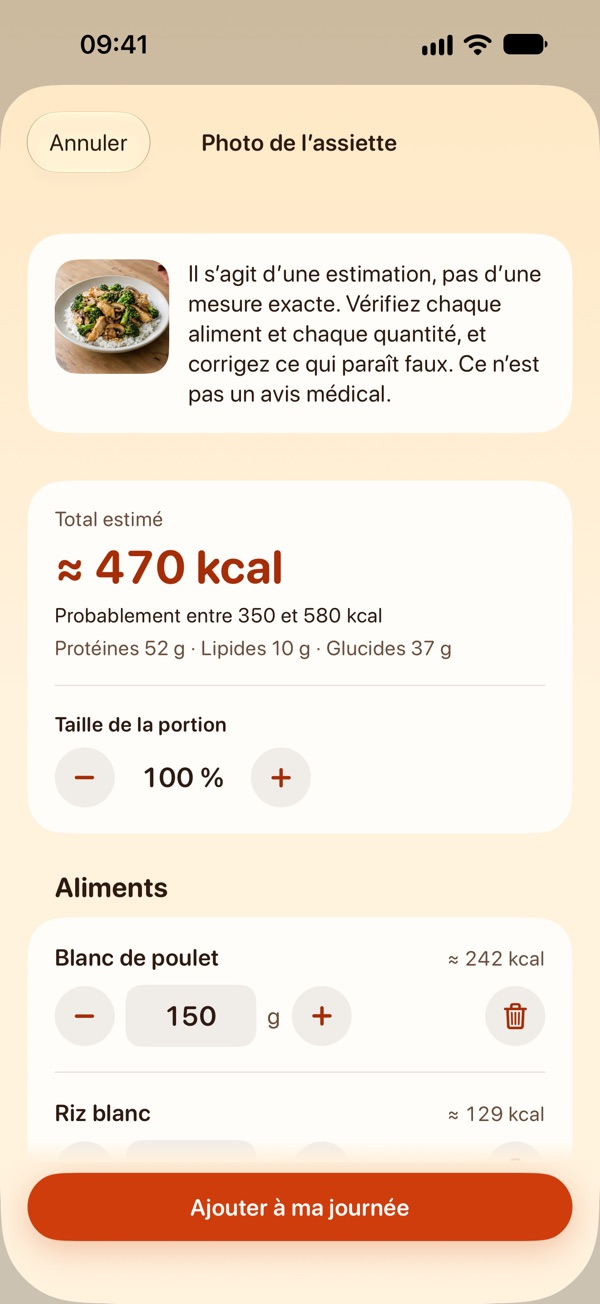
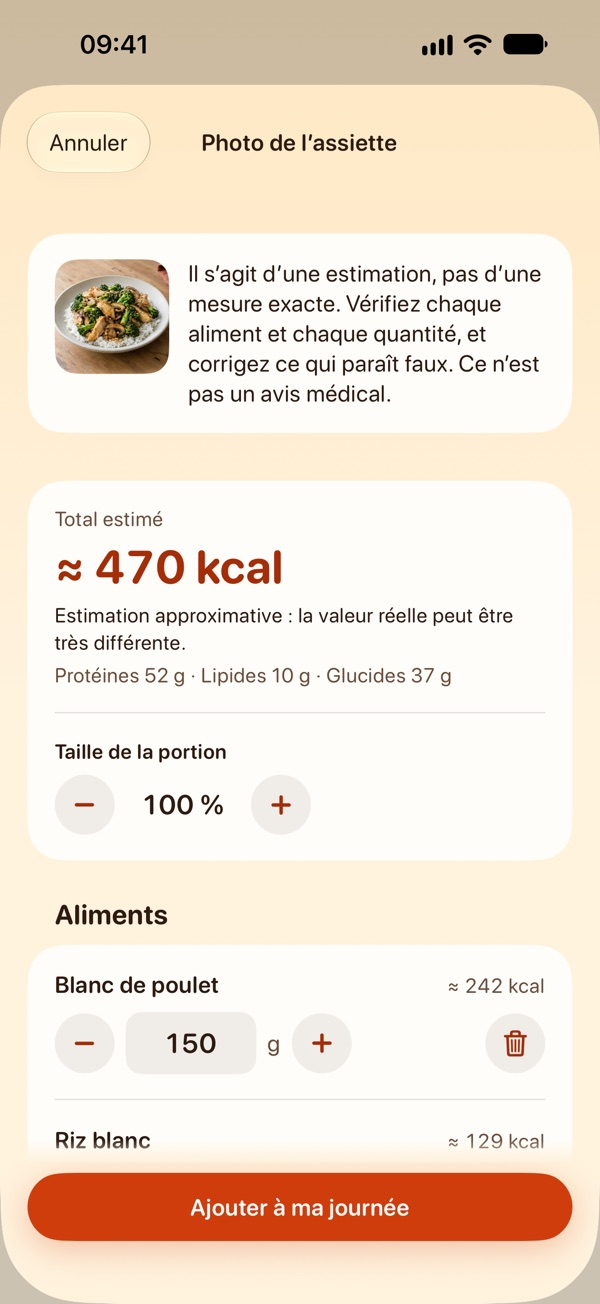
Site 2.5.1 : résultat de la photo de l'assiette sans fourchette, rappel des graisses invisibles, mention « Estimation incertaine », note de liste pleine et corrections du clavier (questions fréquentes et capture), en anglais et en français

diff --git a/fr/index.html b/fr/index.html
@@ -111,7 +111,7 @@ footer{color:var(--muted);font-size:13px;text-align:center;margin-top:28px}
   <section id="app">
     <h2>Votre semaine, organisée</h2>
     <ul class="features">
-      <li><strong>Des calories à partir d’une photo de l’assiette (version 2.5)</strong>Prenez votre assiette en photo : l’intelligence artificielle intégrée à votre iPhone reconnaît les aliments et estime les quantités et les calories, sur l’appareil. La photo n’est ni enregistrée ni envoyée. Ajoutez le résultat à votre journal du jour. 3 analyses sont offertes ; ensuite, l’analyse de la photo de l’assiette fait partie de Premium. Il faut un iPhone compatible avec l’intelligence artificielle intégrée, sous iOS 27 ou plus récent, avec cette fonction activée ; tout le reste fonctionne sans elle. Les estimations sont approximatives.</li>
+      <li><strong>Des calories à partir d’une photo de l’assiette (version 2.5)</strong>Prenez votre assiette en photo : l’intelligence artificielle intégrée à votre iPhone reconnaît les aliments et estime les quantités et les calories, sur l’appareil. La photo n’est ni enregistrée ni envoyée. Ajoutez le résultat à votre journal du jour. 3 analyses sont offertes ; ensuite, l’analyse de la photo de l’assiette fait partie de Premium. Il faut un iPhone compatible avec l’intelligence artificielle intégrée, sous iOS 27 ou plus récent, avec cette fonction activée ; tout le reste fonctionne sans elle. Le résultat est une estimation approximative, qui peut être très éloignée de votre assiette : l’huile, le beurre, la crème et les sauces sont souvent invisibles sur une photo ; vérifiez chaque aliment et chaque quantité, et ajoutez ce qui manque.</li>
       <li><strong>Votre journal du jour (version 2.5)</strong>Gardez la trace de ce que vous mangez chaque jour et voyez le total de calories d’un coup d’œil. Votre journal reste sur votre iPhone.</li>
       <li><strong>Calculateur de calories (version 2.5, gratuit)</strong>Dans Objectifs, pour les adultes : indiquez votre âge, le sexe utilisé par la formule, votre taille, votre poids et votre niveau d’activité, et voyez une estimation de votre métabolisme de base (l’énergie dépensée au repos) et des calories pour maintenir votre poids, par jour et par semaine. Il applique la formule de Mifflin-St Jeor et les facteurs d’activité habituels. Ce sont des estimations, pas un avis médical, et aucun nombre n’est affiché si vous indiquez une grossesse, un allaitement, un trouble du comportement alimentaire ou une maladie. Ce que vous saisissez n’est ni enregistré ni envoyé.</li>
       <li><strong>De nouvelles formules et un écran d’offre plus clair (version 2.4)</strong>Choisissez l’abonnement à la semaine (essai gratuit de 3 jours pour les nouveaux abonnés éligibles), au mois, pour 3 mois ou à l’année, la meilleure offre. Juste après votre première semaine offerte, l’écran d’offre s’ouvre avec un titre tiré de vos réponses ; fermez-le avec la croix pour garder l’accès limité. « Tout voir » liste toutes les fonctions Premium.</li>
@@ -132,7 +132,7 @@ footer{color:var(--muted);font-size:13px;text-align:center;margin-top:28px}
       <li><strong>TakeMyWeek Premium</strong>Abonnement à renouvellement automatique, à la semaine (avec essai gratuit de 3 jours pour les nouveaux abonnés éligibles), au mois, pour 3 mois ou à l’année. Il débloque la création et la modification des semaines, toutes les recettes, les filtres avancés, le placard, le scan et l’analyse de la photo de l’assiette au-delà des 3 offertes. Les nouvelles installations (version 2.1 et suivantes) peuvent voir une offre de bienvenue pendant 48 heures, dans Objectifs et, depuis la version 2.3, en tête de l’écran d’offre (voir les conditions d’utilisation). Sans abonnement, vous pouvez parcourir les rubriques, relire votre semaine et vos courses enregistrées, utiliser les Objectifs, le calculateur de calories et les pas, et essayer 3 fois l’analyse de la photo de l’assiette.</li>
     </ul>
     <div class="shots" role="group" aria-label="Captures de TakeMyWeek sur iPhone">
-      <img src="../assets/shot25-fr-plate.jpg" width="600" height="1304" alt="Résultat de la photo de l’assiette : le total estimé est d’environ 470 kcal, probablement entre 350 et 580 kcal, avec les protéines, les lipides et les glucides. Dessous, les aliments reconnus : blanc de poulet 150 g et riz blanc 100 g, chacun avec sa quantité à corriger, et le bouton « Ajouter à ma journée »." loading="lazy" decoding="async">
+      <img src="../assets/shot25-fr-plate.jpg" width="600" height="1304" alt="Résultat de la photo de l’assiette : le total estimé est d’environ 470 kcal, avec la mention qu’il s’agit d’une estimation approximative, puis les protéines, les lipides et les glucides. Dessous, les aliments reconnus : blanc de poulet 150 g et riz blanc 100 g, chacun avec sa quantité à corriger, et le bouton « Ajouter à ma journée »." loading="lazy" decoding="async">
       <img src="../assets/shot25-fr-journal.jpg" width="600" height="1304" alt="Onglet Objectifs, carte « Journal du jour » : environ 776 kcal mangées aujourd’hui, un objectif quotidien estimé d’environ 1 917 kcal et environ 1 141 kcal restantes, avec le bouton « Photo de l’assiette »." loading="lazy" decoding="async">
       <img src="../assets/shot22-fr-1.jpg" width="600" height="1304" alt="« Qu’est-ce qui compte pour vous ? » Quatre objectifs cochés : manger plus équilibré, gagner du temps en cuisine, bouger plus au quotidien et cuisiner pour toute la famille." loading="lazy" decoding="async">
       <img src="../assets/shot22-fr-2.jpg" width="600" height="1304" alt="« Votre configuration » : déjeuner et dîner, 5 jours ; 4 personnes ; temps de cuisine : 30 minutes ou moins ; régime Équilibré, choisi pour vous ; aucun allergène exclu ; toutes les rubriques de recettes ; objectif de 8 000 pas par jour." loading="lazy" decoding="async">
@@ -179,7 +179,7 @@ footer{color:var(--muted);font-size:13px;text-align:center;margin-top:28px}
     <h3>Enfants</h3>
     <p>TakeMyWeek ne collecte aucune information, auprès de personne, enfants compris. Les Objectifs (poids et objectif calorique) et le calculateur de calories sont réservés aux adultes de 18 ans et plus ; l’app refuse un profil de moins de 18 ans et le calculateur n’affiche aucun résultat en dessous.</p>
     <h3>Informations de santé</h3>
-    <p>Les calories, les macronutriments, les régimes, l’objectif calorique et l’objectif de pas sont des estimations et des informations générales, pas un avis médical ou diététique. Les calories estimées à partir d’une photo d’assiette sont approximatives : l’analyse peut se tromper sur les plats et les portions, vérifiez donc le résultat. L’objectif calorique repose sur une formule publiée, avec des garde-fous (apport minimal quotidien, rythme doux ou modéré, aucune prise de poids visée) ; il ne peut pas prédire vos résultats. Le calculateur de calories repose lui aussi sur une formule publiée (Mifflin-St Jeor, avec des facteurs d’activité) : ses chiffres sont des estimations qui varient d’une personne à l’autre. Si vous êtes enceinte ou allaitez, avez une maladie, ou avez ou avez eu un trouble du comportement alimentaire, parlez-en à un professionnel de santé avant de changer d’alimentation ; si vous l’indiquez dans votre profil, l’app ne calcule pas de déficit calorique. Les filtres de régime et d’allergènes reposent sur les ingrédients de notre catalogue : vérifiez toujours les emballages (allergènes, contaminations croisées).</p>
+    <p>Les calories, les macronutriments, les régimes, l’objectif calorique et l’objectif de pas sont des estimations et des informations générales, pas un avis médical ou diététique. Les calories estimées à partir d’une photo d’assiette sont approximatives et peuvent être très éloignées de la valeur réelle : l’analyse peut se tromper sur les plats et les portions et ne voit souvent pas l’huile, le beurre, la crème ni les sauces ; vérifiez donc le résultat et ajoutez ce qui manque. L’objectif calorique repose sur une formule publiée, avec des garde-fous (apport minimal quotidien, rythme doux ou modéré, aucune prise de poids visée) ; il ne peut pas prédire vos résultats. Le calculateur de calories repose lui aussi sur une formule publiée (Mifflin-St Jeor, avec des facteurs d’activité) : ses chiffres sont des estimations qui varient d’une personne à l’autre. Si vous êtes enceinte ou allaitez, avez une maladie, ou avez ou avez eu un trouble du comportement alimentaire, parlez-en à un professionnel de santé avant de changer d’alimentation ; si vous l’indiquez dans votre profil, l’app ne calcule pas de déficit calorique. Les filtres de régime et d’allergènes reposent sur les ingrédients de notre catalogue : vérifiez toujours les emballages (allergènes, contaminations croisées).</p>
     <h3>Suppression</h3>
     <p>Les données restent sur votre iPhone jusqu’à ce que vous les remplaciez ou supprimiez l’app. Réglages › Réinitialiser les données efface les données actives (planning, préférences, favoris, placard, coches de courses, Objectifs, réponses « Mes besoins », journal du jour (depuis la version 2.5), liste des félicitations déjà affichées, cache des produits scannés et, depuis la version 2.3, rappel hebdomadaire avec sa notification programmée et trace des articles exportés), mais conserve une copie de récupération sur l’appareil ; supprimez l’app (plutôt que de la décharger) pour effacer tout ce qu’elle a enregistré. L’élément de l’offre de bienvenue et le compteur des analyses offertes peuvent rester dans le trousseau, comme expliqué plus haut. Vos pas restent dans l’app Santé, que vous contrôlez. Les articles déjà exportés vers Rappels y restent jusqu’à ce que vous les supprimiez dans Rappels. Les fichiers de sauvegarde exportés se suppriment séparément. Comme nous ne détenons rien sur aucun serveur, il n’y a rien à nous demander.</p>
     <h3>Modifications</h3>
@@ -199,7 +199,7 @@ footer{color:var(--muted);font-size:13px;text-align:center;margin-top:28px}
     <h3>Objectifs, pas et données produit</h3>
     <p>Les objectifs, l’objectif calorique, l’objectif de pas et les résultats du calculateur de calories sont des estimations générales destinées aux adultes ; ils ne remplacent pas l’avis d’un professionnel de santé. Les informations produit du scan viennent de la base ouverte et collaborative Open Food Facts (ODbL) ; elles peuvent être incomplètes ou dépassées : vérifiez l’emballage.</p>
     <h3>Photos d’assiette et journal du jour (version 2.5 et suivantes)</h3>
-    <p>L’analyse de la photo de l’assiette fait partie de Premium : les 3 premières analyses sont offertes, les suivantes demandent un abonnement Premium actif. Elle demande un iPhone compatible avec l’intelligence artificielle intégrée, sous iOS 27 ou plus récent ; là où elle n’est pas disponible, l’app l’indique et tout le reste fonctionne comme avant. Les calories estimées à partir d’une photo sont produites sur votre iPhone par un modèle automatique : elles sont approximatives, peuvent être fausses et ne constituent pas un avis médical ou diététique. Le journal du jour est un relevé personnel conservé sur votre appareil.</p>
+    <p>L’analyse de la photo de l’assiette fait partie de Premium : les 3 premières analyses sont offertes, les suivantes demandent un abonnement Premium actif. Elle demande un iPhone compatible avec l’intelligence artificielle intégrée, sous iOS 27 ou plus récent ; là où elle n’est pas disponible, l’app l’indique et tout le reste fonctionne comme avant. Les calories estimées à partir d’une photo sont produites sur votre iPhone par un modèle automatique : ce sont des estimations approximatives, qui peuvent être fausses ou très éloignées de la valeur réelle, et elles ne constituent pas un avis médical ou diététique. Le journal du jour est un relevé personnel conservé sur votre appareil.</p>
   </section>
 
   <section id="assistance">
@@ -213,9 +213,13 @@ footer{color:var(--muted);font-size:13px;text-align:center;margin-top:28px}
 
     <dl>
       <dt>Comment fonctionne la photo de l’assiette ?</dt>
-      <dd>Prenez votre assiette en photo : l’intelligence artificielle intégrée à votre iPhone reconnaît les aliments et estime les quantités et les calories, sur l’appareil. Ajoutez le résultat à votre journal du jour. 3 analyses sont offertes ; ensuite, l’analyse de la photo de l’assiette fait partie de Premium. La photo n’est ni enregistrée ni envoyée. L’estimation est approximative : elle peut se tromper sur les plats et les portions, vérifiez-la.</dd>
+      <dd>Prenez votre assiette en photo : l’intelligence artificielle intégrée à votre iPhone reconnaît les aliments et estime les quantités et les calories, sur l’appareil. Ajoutez le résultat à votre journal du jour. 3 analyses sont offertes ; ensuite, l’analyse de la photo de l’assiette fait partie de Premium. La photo n’est ni enregistrée ni envoyée. Le résultat est une estimation approximative : elle peut se tromper sur les plats et les portions, et l’huile, le beurre, la crème et les sauces sont souvent invisibles sur une photo. Vérifiez chaque aliment et chaque quantité, et ajoutez ce qui manque avec « Ajouter un aliment ».</dd>
       <dt>La photo de l’assiette n’est pas disponible sur mon iPhone.</dt>
       <dd>Elle demande un iPhone compatible avec l’intelligence artificielle intégrée, sous iOS 27 ou plus récent, avec cette fonction activée dans les Réglages et son modèle téléchargé (s’il est encore en préparation, réessayez plus tard). Sur les autres iPhone, l’app indique que la fonction n’est pas disponible et tout le reste fonctionne comme avant. La photo n’est jamais envoyée à un serveur à la place.</dd>
+      <dt>Pourquoi les calories d’après une photo peuvent-elles être fausses ?</dt>
+      <dd>L’analyse devine les aliments et leurs quantités à partir d’une seule photo. Elle ne peut rien peser et ne voit souvent pas ce qui est caché dans un plat : huile, beurre, crème, sauces. Elle peut aussi nommer un aliment à tort ou proposer une quantité trop forte ou trop faible. TakeMyWeek n’affiche donc aucune fourchette de calories, qui laisserait croire à une précision que l’analyse n’a pas : sous le total, une ligne indique « Estimation approximative : la valeur réelle peut être très différente. » Une note sous la liste des aliments rappelle que l’huile, le beurre, la crème et les sauces sont souvent invisibles sur une photo : ajoutez-les avec « Ajouter un aliment » (ils sont dans la liste d’aliments). Sous un aliment, « Estimation incertaine : à vérifier ou à corriger. » signifie que l’analyse a annoncé une confiance faible, ou que l’aliment ne figure pas dans la liste d’aliments de l’app, donc que ses calories sont l’estimation de l’analyse, ramenée dans une plage plausible pour sa catégorie : vérifiez-le ou corrigez-le. Une ligne sans cette mention n’est pas forcément juste. Si un message indique qu’une quantité a été réduite, elle a été ramenée aux limites de l’app : vérifiez-la. La note indiquant que la liste est limitée aux aliments les plus visibles n’apparaît que lorsque la liste a été coupée à 8 aliments (rare : l’analyse renvoie 8 aliments au plus). Quand la liste est pleine (8 aliments), une note indique d’en retirer un pour en ajouter un autre.</dd>
+      <dt>Qu’est-ce qui change dans la version 2.5.1 ?</dt>
+      <dd>La version 2.5.1 modifie le résultat de la photo de l’assiette et corrige quelques écrans. Le calcul des calories ne change pas. Photo de l’assiette : la fourchette de calories est remplacée par une ligne d’estimation approximative sans chiffre ; un rappel sur l’huile, le beurre, la crème et les sauces apparaît sous la liste des aliments ; un message distinct apparaît quand une quantité a été réduite ; la mention « Estimation incertaine » apparaît aussi pour les aliments qui ne figurent pas dans la liste d’aliments de l’app ; pour un tel aliment, protéines, lipides et glucides ne dépassent plus 100 g pour 100 g (les calories ne changent pas). Écrans : dans le scan de code-barres, dans la saisie à la main du journal et quand vous saisissez votre poids (« Continuer » dans « Votre objectif », « Étape suivante » dans les questions de départ), les champs et les boutons restent accessibles au-dessus du clavier, et l’interrupteur « Je suis dans l’une de ces situations » (calculateur et Objectifs) répond aussi quand vous touchez son libellé.</dd>
       <dt>Où est conservé mon journal du jour ?</dt>
       <dd>Sur votre iPhone uniquement, dans le fichier de l’app avec le reste de vos données. Il fait partie d’une sauvegarde JSON si vous en exportez une, et Réglages › Réinitialiser les données l’efface.</dd>
       <dt>Comment modifier mes besoins et objectifs ?</dt>

diff --git a/index.html b/index.html
@@ -125,7 +125,7 @@ footer{color:var(--muted);font-size:13px;text-align:center;margin-top:28px}
   <section id="app">
     <h2>Your week, sorted</h2>
     <ul class="features">
-      <li><strong>Calories from a photo of your plate (version 2.5)</strong>Take a photo of your plate: the artificial intelligence built into your iPhone recognizes the foods and estimates quantities and calories, on the device. The photo is never saved or sent. Add the result to your daily log. 3 analyses are free; after that, plate photo analysis is part of Premium. It needs an iPhone compatible with built-in artificial intelligence, running iOS 27 or later, with that feature turned on; everything else works without it. Estimates are approximate.</li>
+      <li><strong>Calories from a photo of your plate (version 2.5)</strong>Take a photo of your plate: the artificial intelligence built into your iPhone recognizes the foods and estimates quantities and calories, on the device. The photo is never saved or sent. Add the result to your daily log. 3 analyses are free; after that, plate photo analysis is part of Premium. It needs an iPhone compatible with built-in artificial intelligence, running iOS 27 or later, with that feature turned on; everything else works without it. The result is a rough estimate that can be far from your plate: oil, butter, cream and sauces are often invisible in a photo, so check every food and quantity and add what is missing.</li>
       <li><strong>Your daily log (version 2.5)</strong>Keep track of what you eat each day and see the calorie total at a glance. Your log stays on your iPhone.</li>
       <li><strong>Calorie calculator (version 2.5, free)</strong>In Goals, for adults: enter your age, the sex used in the formula, your height, your weight and how active you are, and see an estimate of your basal metabolic rate (the energy your body uses at rest) and of the calories to maintain your weight, per day and per week. It uses the Mifflin-St Jeor formula and the usual activity factors. These are estimates, not medical advice, and no number is shown if you say you are pregnant, breastfeeding, have an eating disorder or a medical condition. What you type is neither saved nor sent.</li>
       <li><strong>New plans and a clearer offer screen (version 2.4)</strong>Choose a weekly plan (3-day free trial for eligible new subscribers), monthly, 3 months or yearly, the best value. Right after your free first week, the offer screen opens with a title based on your answers; close it with the cross to keep limited access. See all lists every Premium feature.</li>
@@ -146,7 +146,7 @@ footer{color:var(--muted);font-size:13px;text-align:center;margin-top:28px}
       <li><strong>TakeMyWeek Premium</strong>An auto-renewable subscription, weekly (with a 3-day free trial for eligible new subscribers), monthly, for 3 months or yearly, unlocks generating and changing weeks, every recipe, advanced filters, the pantry, the barcode scan and plate photo analysis beyond the 3 free ones. New installations (version 2.1 and later) may see a welcome offer for 48 hours, in Goals and, from version 2.3, at the top of the offer screen (see the Terms of Use). Without a subscription you can browse the recipe collections, keep reading your saved week and shopping list, use Goals, the calorie calculator and steps, and try plate photo analysis 3 times.</li>
     </ul>
     <div class="shots" role="group" aria-label="Screenshots of TakeMyWeek on iPhone">
-      <img src="assets/shot25-en-plate.jpg" width="600" height="1304" alt="Plate photo result: the estimated total is about 470 kcal, likely between 350 and 580 kcal, with protein, fat and carbs. Below, the foods found: grilled chicken breast 150 g and white rice 100 g, each with its quantity you can correct, and the Add to my day button." loading="lazy" decoding="async">
+      <img src="assets/shot25-en-plate.jpg" width="600" height="1304" alt="Plate photo result: the estimated total is about 470 kcal, with a note that it is a rough estimate, then protein, fat and carbs. Below, the foods found: grilled chicken breast 150 g and white rice 100 g, each with its quantity you can correct, and the Add to my day button." loading="lazy" decoding="async">
       <img src="assets/shot25-en-journal.jpg" width="600" height="1304" alt="Goals tab, Daily journal card: about 776 kcal eaten today, an estimated daily goal of about 1,917 kcal and about 1,141 kcal left, with the Plate photo button." loading="lazy" decoding="async">
       <img src="assets/shot22-en-1.jpg" width="600" height="1304" alt="What matters to you? Four goals checked: Eat more balanced, Save time in the kitchen, Move more every day and Cook for the whole family." loading="lazy" decoding="async">
       <img src="assets/shot22-en-2.jpg" width="600" height="1304" alt="Your setup: lunch and dinner, 5 days; 4 people; cooking time 30 minutes or less; diet Balanced, chosen for you; no allergen left out; all recipe collections; daily step goal 8,000." loading="lazy" decoding="async">
@@ -205,7 +205,7 @@ footer{color:var(--muted);font-size:13px;text-align:center;margin-top:28px}
     <p>TakeMyWeek collects no information from anyone, including children. Goals (weight and calorie target) and the calorie calculator are for adults aged 18 and over; the app refuses a profile under 18 and the calculator gives no result under 18.</p>
 
     <h3>Health information</h3>
-    <p>Calories, macronutrients, diet labels, calorie targets and step goals are estimates and general information, not medical or dietary advice. Calories estimated from a photo of a plate are approximate: the analysis can misjudge dishes and portions, so check the result. The calorie target uses a published formula with safeguards (minimum daily intake, gentle or moderate pace, no weight-gain goal); it cannot predict your results. The calorie calculator also uses a published formula (Mifflin-St Jeor, with activity factors): its figures are estimates that vary from person to person. If you are pregnant or breastfeeding, have a medical condition, or have or had an eating disorder, talk to a health professional before changing your diet; if you tell the app so in your profile, it does not calculate a calorie deficit. Diet and allergen filters are based on ingredient labels in our catalog: always check product packaging for allergens and cross-contamination.</p>
+    <p>Calories, macronutrients, diet labels, calorie targets and step goals are estimates and general information, not medical or dietary advice. Calories estimated from a photo of a plate are approximate and can be far from the real value: the analysis can misjudge dishes and portions and often cannot see oil, butter, cream or sauces, so check the result and add what is missing. The calorie target uses a published formula with safeguards (minimum daily intake, gentle or moderate pace, no weight-gain goal); it cannot predict your results. The calorie calculator also uses a published formula (Mifflin-St Jeor, with activity factors): its figures are estimates that vary from person to person. If you are pregnant or breastfeeding, have a medical condition, or have or had an eating disorder, talk to a health professional before changing your diet; if you tell the app so in your profile, it does not calculate a calorie deficit. Diet and allergen filters are based on ingredient labels in our catalog: always check product packaging for allergens and cross-contamination.</p>
 
     <h3>Deleting your data</h3>
     <p>Data stays on your iPhone until you replace it or delete the app. Settings › Reset data clears the active data (plan, preferences, favorites, pantry, shopping checks, Goals, “My needs” answers, the daily log (from version 2.5), the list of congratulations already shown, the scanned-product cache and, from version 2.3, the weekly reminder with its scheduled notification and the record of exported items) but keeps a local recovery copy on the device; delete the app (rather than offloading it) to remove everything stored by the app. The welcome-offer item and the free-analysis counter in the keychain may remain on the device, as explained above. Steps stay in the Health app, which you control. Items already exported to the Reminders app stay there until you delete them in Reminders. Exported backup files are yours to delete separately. Because we hold nothing on any server, there is nothing to request from us.</p>
@@ -235,7 +235,7 @@ footer{color:var(--muted);font-size:13px;text-align:center;margin-top:28px}
     <h3>Goals, steps and product data</h3>
     <p>Goals, calorie targets, step goals and the calorie calculator’s results are general estimates for adults and do not replace advice from a health professional. Product information from the barcode scan comes from the open, collaborative Open Food Facts database (ODbL); it may be incomplete or out of date: check the packaging.</p>
     <h3>Plate photos and the daily log (version 2.5 and later)</h3>
-    <p>Plate photo analysis is part of Premium: the first 3 analyses are free, and later ones need an active Premium subscription. It needs an iPhone compatible with built-in artificial intelligence, running iOS 27 or later; where it is not available, the app says so and everything else works as before. Calories estimated from a photo are produced on your iPhone by an automatic model: they are approximate, can be wrong and are not medical or dietary advice. Your daily log is a personal record kept on your device.</p>
+    <p>Plate photo analysis is part of Premium: the first 3 analyses are free, and later ones need an active Premium subscription. It needs an iPhone compatible with built-in artificial intelligence, running iOS 27 or later; where it is not available, the app says so and everything else works as before. Calories estimated from a photo are produced on your iPhone by an automatic model: they are rough estimates that can be wrong or far from the real value, and they are not medical or dietary advice. Your daily log is a personal record kept on your device.</p>
   </section>
 
   <section id="support">
@@ -249,9 +249,13 @@ footer{color:var(--muted);font-size:13px;text-align:center;margin-top:28px}
 
     <dl>
       <dt>How does the plate photo work?</dt>
-      <dd>Take a photo of your plate: the artificial intelligence built into your iPhone recognizes the foods and estimates quantities and calories, on the device. Add the result to your daily log. 3 analyses are free; after that, plate photo analysis is part of Premium. The photo is never saved or sent. The estimate is approximate: it can misjudge dishes and portions, so check it.</dd>
+      <dd>Take a photo of your plate: the artificial intelligence built into your iPhone recognizes the foods and estimates quantities and calories, on the device. Add the result to your daily log. 3 analyses are free; after that, plate photo analysis is part of Premium. The photo is never saved or sent. The result is a rough estimate: it can misjudge dishes and portions, and oil, butter, cream and sauces are often invisible in a photo, so check every food and quantity and add what is missing with Add a food.</dd>
       <dt>The plate photo is not available on my iPhone.</dt>
       <dd>It needs an iPhone compatible with built-in artificial intelligence, running iOS 27 or later, with that feature turned on in Settings and its model downloaded (if it is still being prepared, try again later). On other iPhones the app tells you the feature is not available and everything else works as before. The photo is never sent to a server instead.</dd>
+      <dt>Why can the calories from a photo be wrong?</dt>
+      <dd>The analysis guesses the foods and their quantities from a single photo. It cannot weigh anything and often cannot see what is hidden in a dish: oil, butter, cream, sauces. It can also name a food wrongly or suggest a quantity that is too high or too low. TakeMyWeek therefore shows no calorie range, which would suggest a precision the analysis does not have: under the total, a line says “Rough estimate: the real value can differ a lot.” A note under the list of foods reminds you that oil, butter, cream and sauces are often invisible in a photo: add them with Add a food (they are in the food list). Under a food, “Uncertain estimate. Please check or correct it.” means that the analysis reported low confidence, or that the food is not in the app’s own food list, so its calories are the analysis’s estimate, kept within a plausible range for its category: check or correct it. A line without that mark is not necessarily right. If a message says a quantity was reduced, it was lowered to stay within the app’s limits: check it. The note that the list is limited to the most visible foods appears only when the list was cut to 8 foods (rare: the analysis returns at most 8 foods). When the list is full (8 foods), a note says to remove one to add another.</dd>
+      <dt>What changed in version 2.5.1?</dt>
+      <dd>Version 2.5.1 changes the plate photo result and fixes a few screens. The calorie calculation is unchanged. Plate photo: the calorie range is replaced by a rough-estimate line without figures; a reminder about oil, butter, cream and sauces appears under the list of foods; a separate message appears when a quantity was reduced; the “Uncertain estimate” mark also appears for foods that are not in the app’s food list; and for such a food, protein, fat and carbs no longer add up to more than 100 g per 100 g (calories are unchanged). Screens: in the barcode scan, in the manual journal entry and when you enter your weight (“Continue” in “Your goal”, “Next step” in the setup questions), fields and buttons stay reachable above the keyboard, and the “One of these situations applies to me” switch (calculator and Goals) also responds when you tap its label.</dd>
       <dt>Where is my daily log kept?</dt>
       <dd>On your iPhone only, in the app’s file with the rest of your data. It is part of a JSON backup if you export one, and Settings › Reset data clears it.</dd>
       <dt>How do I change my needs and goals?</dt>
